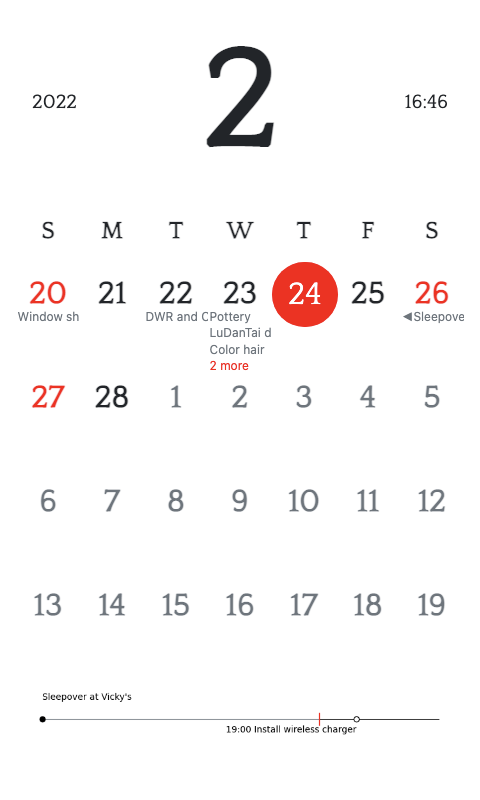
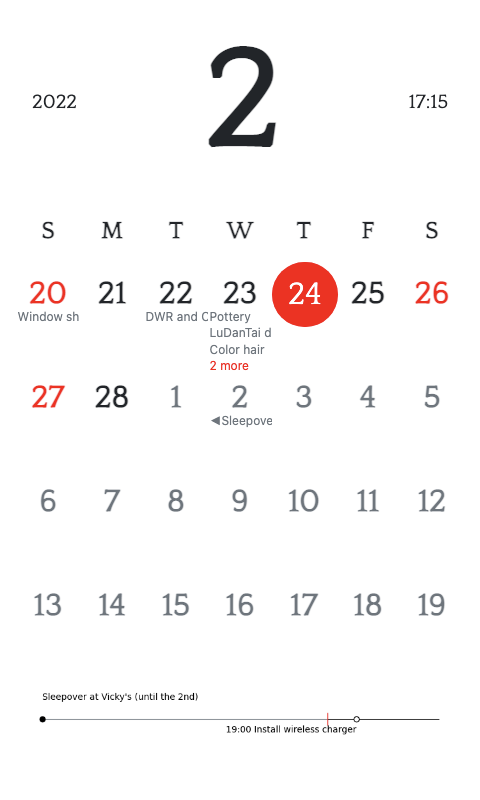
timeline denotes multiday events

diff --git a/render/calendar.html b/render/calendar.html
@@ -12,7 +12,7 @@
              style="display:flex;justify-content:space-between;">
             <div class="time-info">2022</div>
             <h3 class="month font-weight-bold mb-0 text-uppercase">2</h3>
-            <div class="time-info">16:46</div>
+            <div class="time-info">17:15</div>
         </div>
         <!-- Days of week -->
         <ol class="day-names list-unstyled text-center"><li class="font-weight-bold text-uppercase">S</li>
@@ -42,7 +42,6 @@
 <li><div class="date">25</div>
 </li>
 <li><div class="date" style="color:red;">26</div>
-<div class="event">◄Sleepover at Vicky's</div>
 </li>
 <li><div class="date" style="color:red;">27</div>
 </li>
@@ -51,6 +50,7 @@
 <li><div class="date text-muted">1</div>
 </li>
 <li><div class="date text-muted">2</div>
+    <div class="event text-muted">◄Sleepover at Vicky's</div>
 </li>
 <li><div class="date text-muted">3</div>
 </li>

diff --git a/render/timeline.py b/render/timeline.py
@@ -25,7 +25,7 @@ def is_complete(event: dict) -> dict:
         }
     elif military_to_minutes(event["startDatetime"].strftime("%H:%M")) < military_to_minutes(
             current_time) and military_to_minutes(
-            current_time) <= military_to_minutes(event["endDatetime"].strftime("%H:%M")):
+        current_time) <= military_to_minutes(event["endDatetime"].strftime("%H:%M")):
         # in progress
         return {
             "color": "k",
@@ -41,6 +41,15 @@ def is_complete(event: dict) -> dict:
         }
 
 
+def get_date_ordinal(day) -> str:
+    if 4 <= day <= 20 or 24 <= day <= 30:
+        suffix = "th"
+    else:
+        suffix = ["st", "nd", "rd"][day % 10 - 1]
+
+    return f"{day}{suffix}"
+
+
 class Timeline:
     def __init__(self, event_list):
         self.event_list = event_list
@@ -54,7 +63,7 @@ class Timeline:
         # ]
         self.current_datetime = datetime.now()
         self.current_time = self.current_datetime.strftime("%H:%M")
-        self.current_day = self.current_datetime.today()
+        self.current_day = self.current_datetime.date()
 
     def render(self):
         # Create figure and plot a stem plot with the date
@@ -73,8 +82,12 @@ class Timeline:
 
         texts = []
         for event in self.event_list:
-            summary_with_time = f'{event["startDatetime"].strftime("%H:%M")} ' * (
-                not event["allday"]) + f'{event["summary"]}'
+            if event["allday"]:
+                summary_with_time = event["summary"]
+                if event["isMultiday"] and event["endDatetime"].date() != self.current_day:
+                    summary_with_time += f" (until the {get_date_ordinal(int(event['endDatetime'].strftime('%d')))})"
+            else:
+                summary_with_time = f'{event["startDatetime"].strftime("%H:%M")} {event["summary"]}'
 
             ax.plot(
                 military_to_minutes(event["startDatetime"].strftime("%H:%M")), 0,
@@ -93,6 +106,6 @@ class Timeline:
         ax.margins(y=0.1)
 
         adjust_text(texts, only_move={
-                    'points': 'y', 'text': 'y', 'objects': 'y'}, ha='left', va='bottom')
+            'points': 'y', 'text': 'y', 'objects': 'y'}, ha='left', va='bottom')
         # plt.show()
         fig.savefig("render/timeline.png", bbox_inches='tight', transparent=True)
